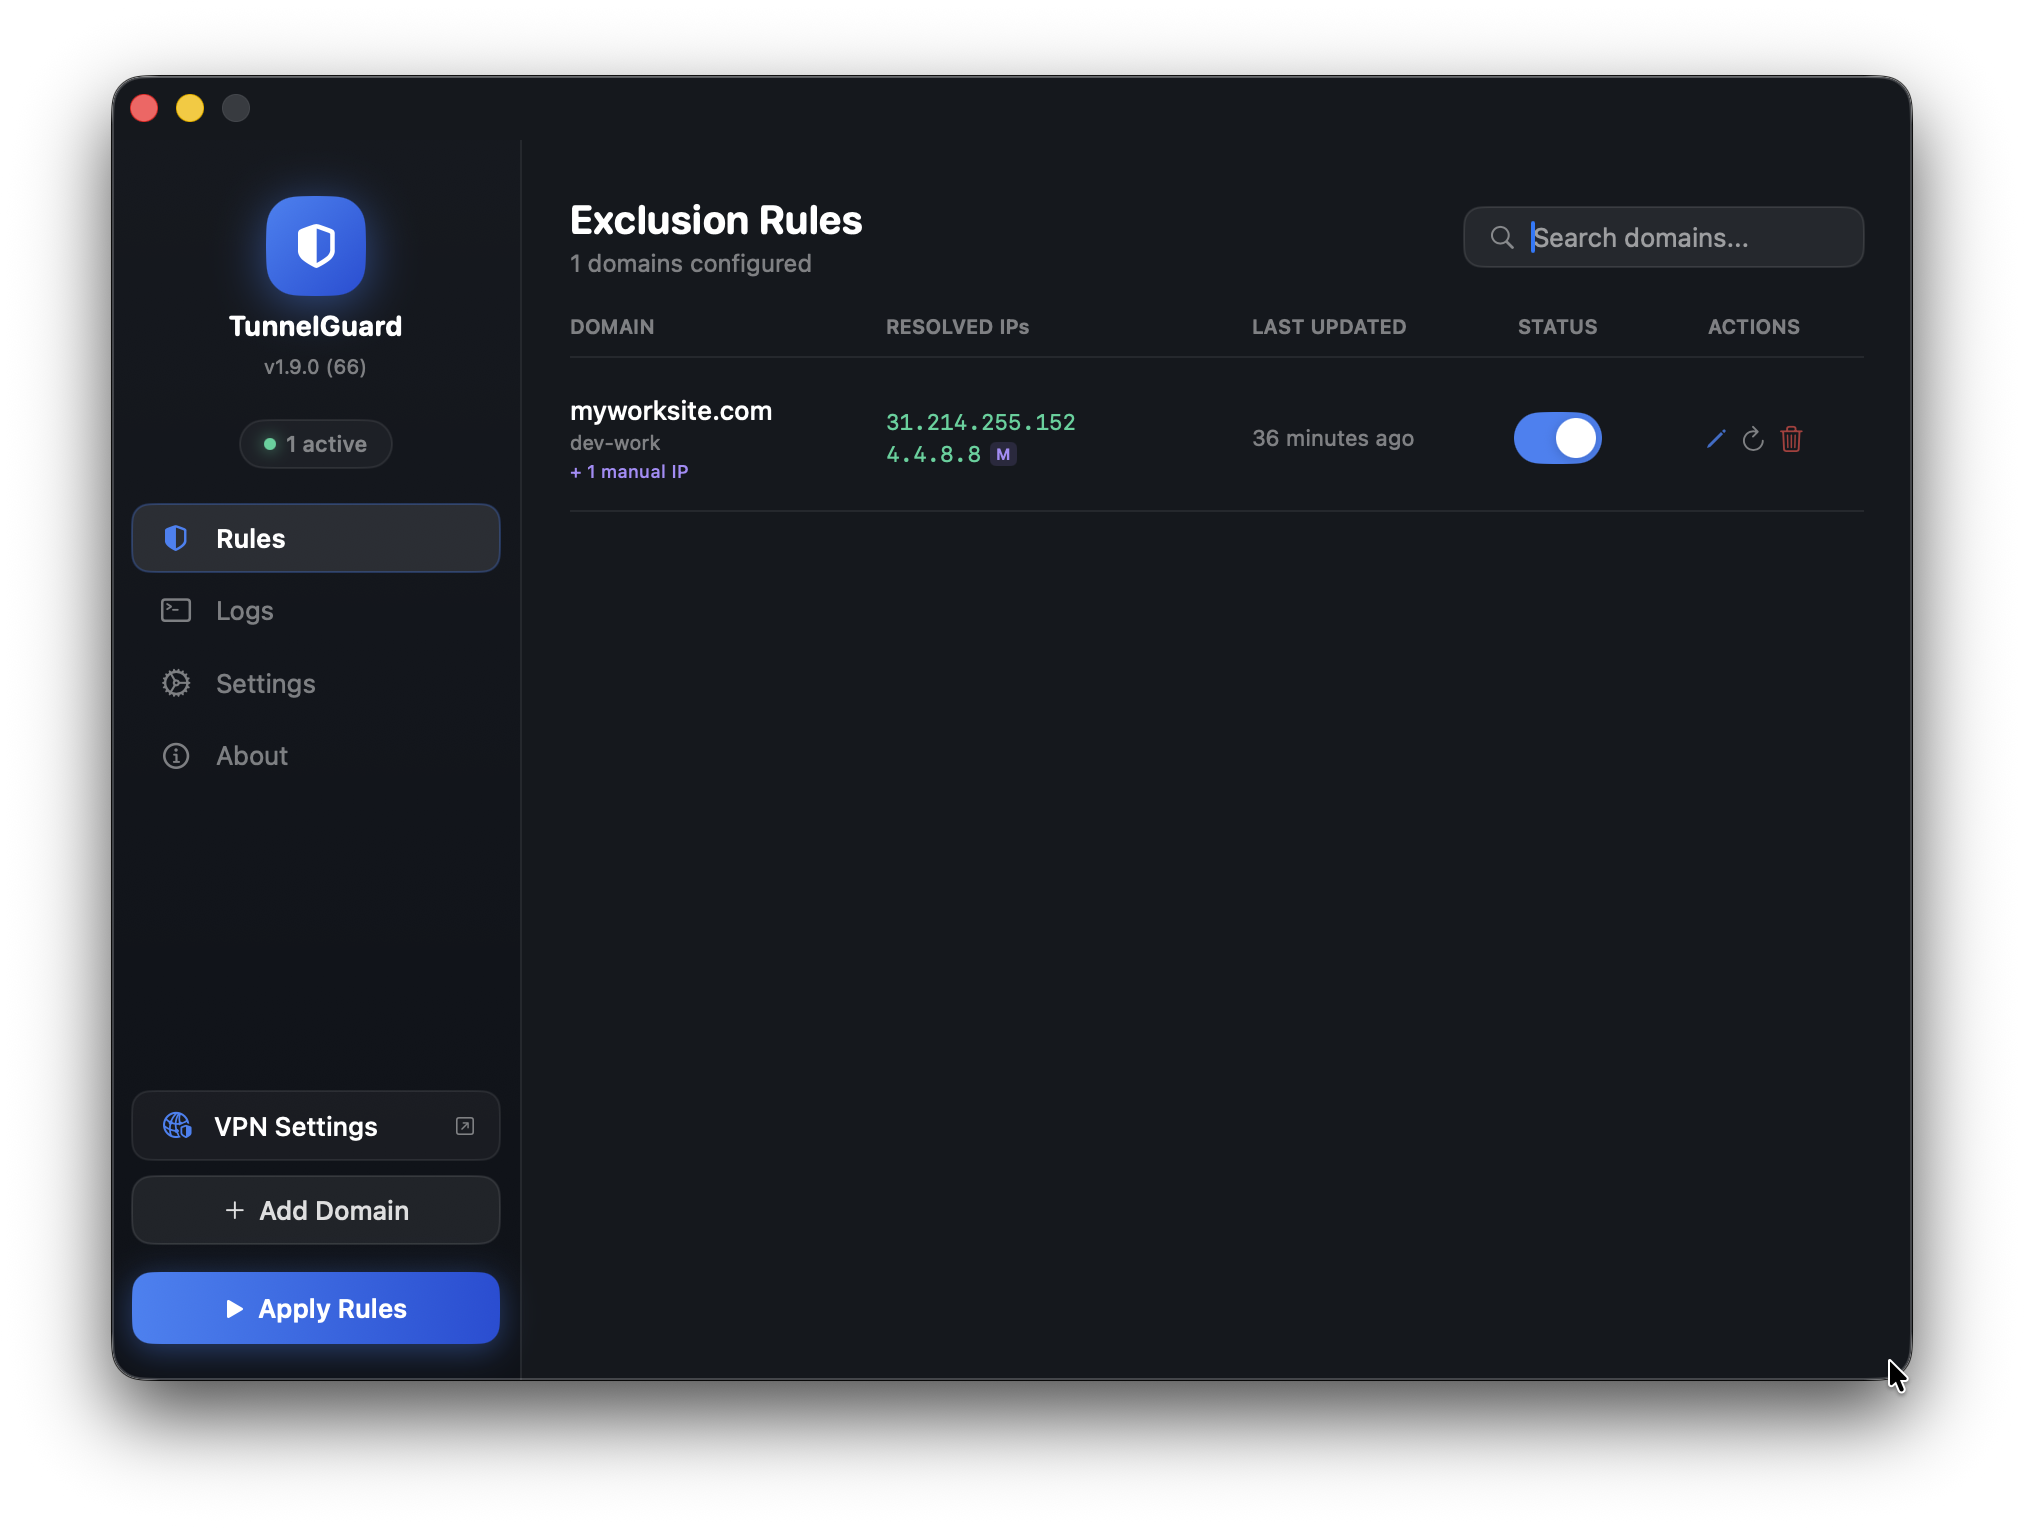
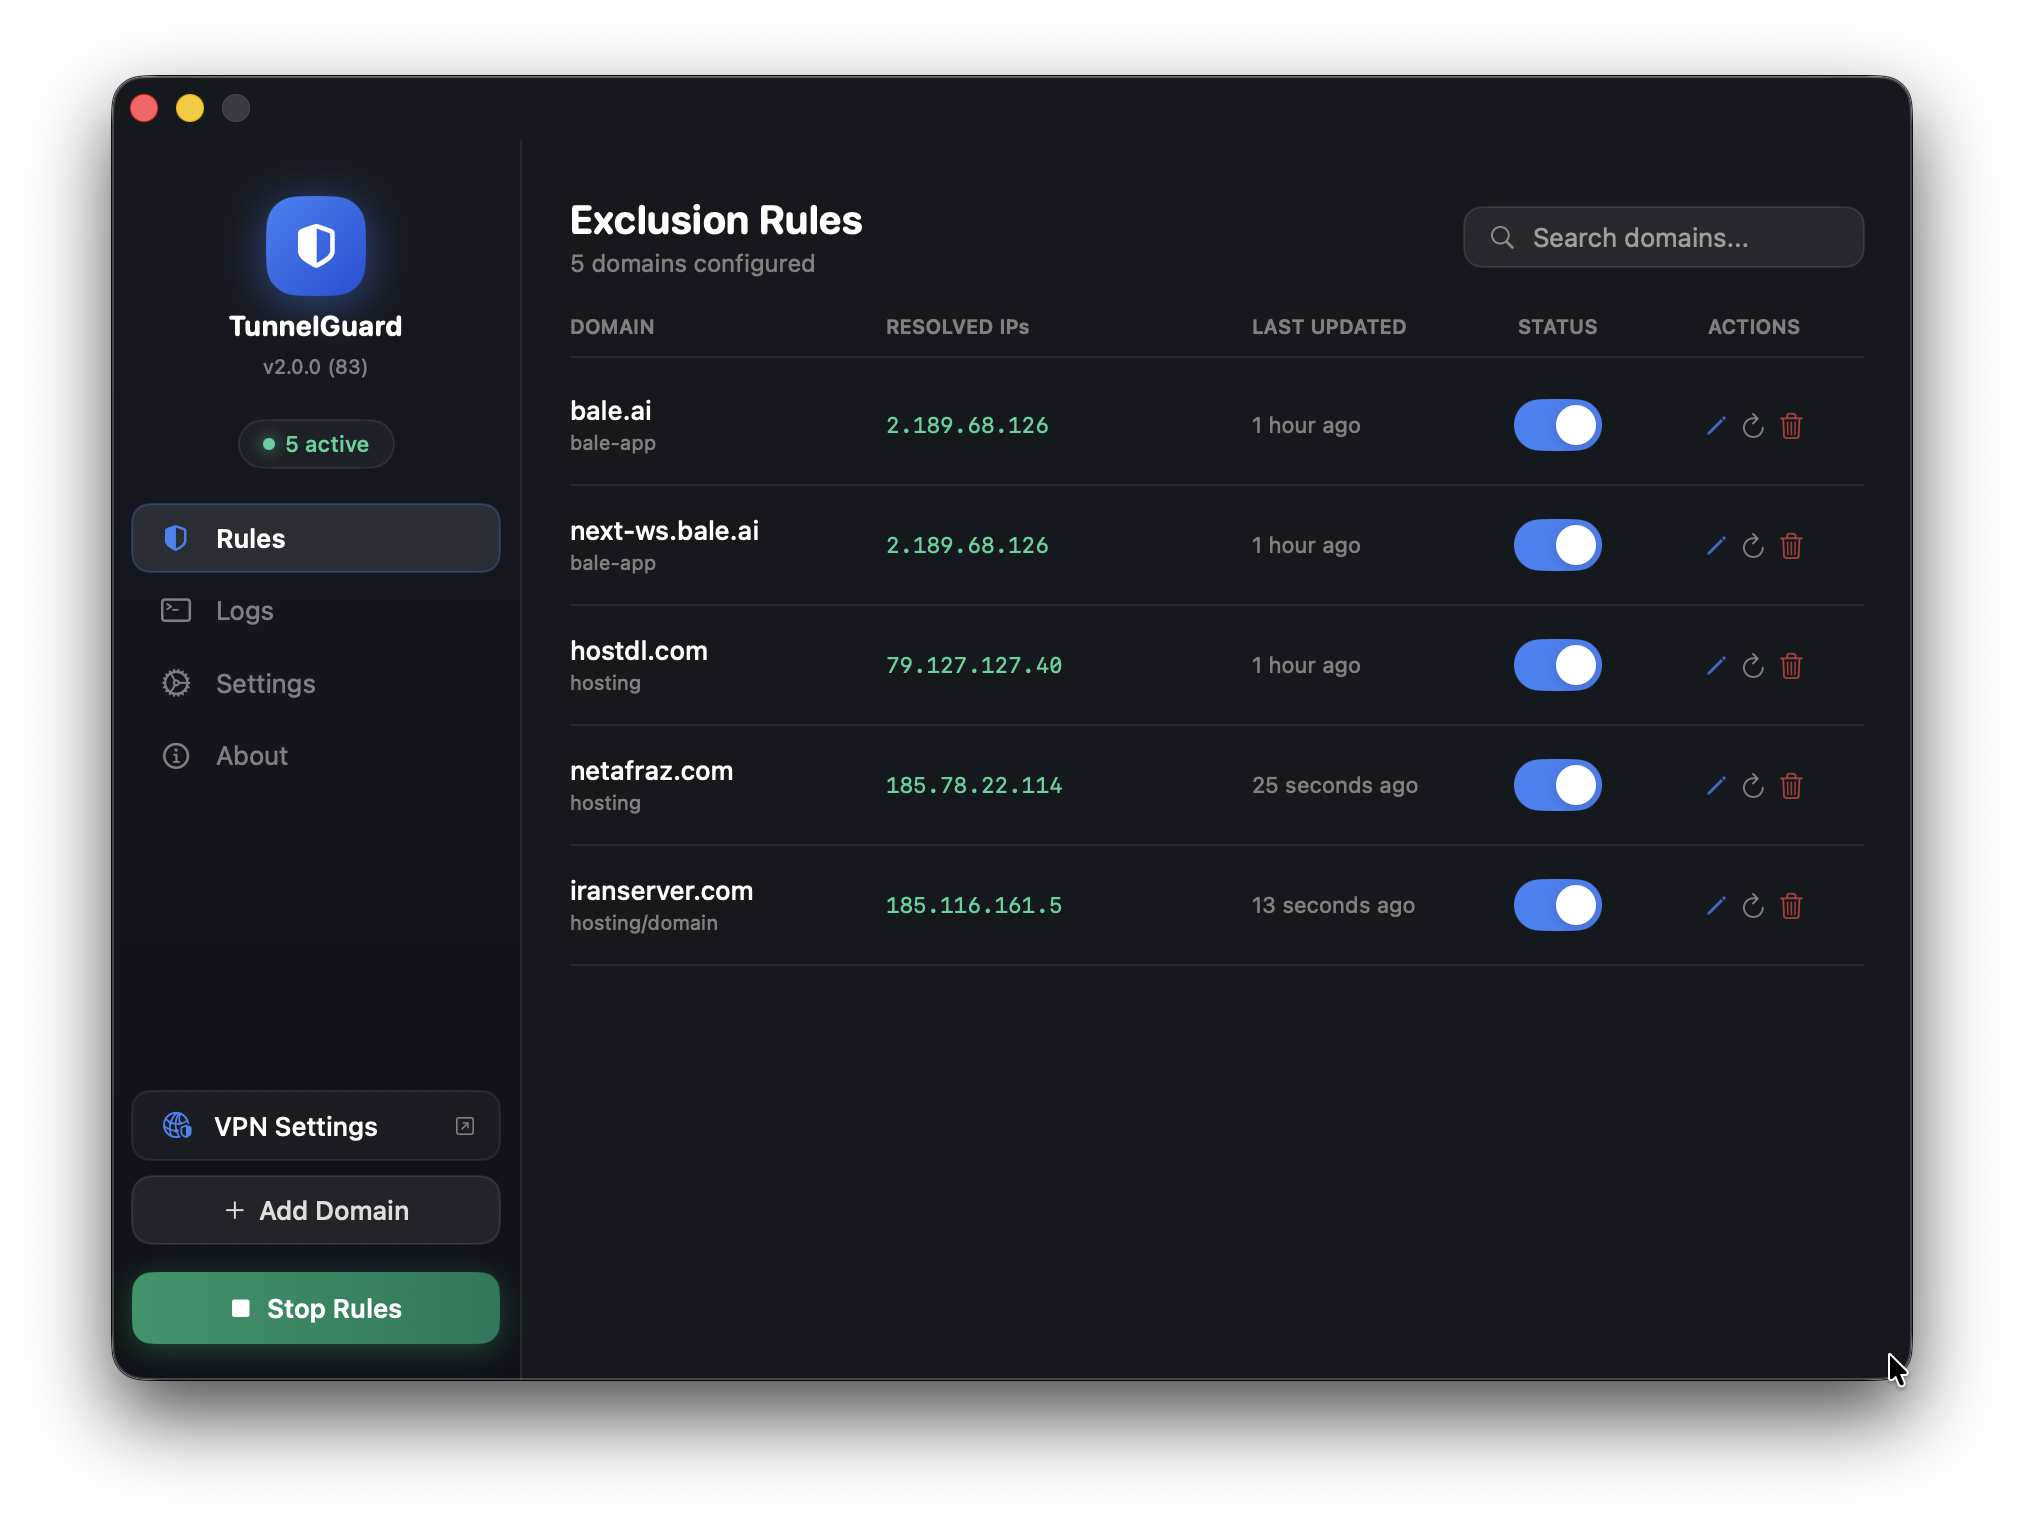
v2.release

diff --git a/Sources/Models.swift b/Sources/Models.swift
@@ -733,48 +733,104 @@ class RouteManager: ObservableObject {
             return
         }
 
-        // Single password prompt for all commands (or direct sudo if granted)
-        let result = runElevatedBatch(commands)
-        let trimmed = result.trimmingCharacters(in: .whitespacesAndNewlines)
-        let hasError = trimmed.contains("Error:") || trimmed.contains("error") || trimmed.contains("not permitted")
+        let writeHosts = AppSettings.shared.writeToHosts
+        let enabledCount = rules.filter { $0.isEnabled }.count
+        let currentRules = rules
 
-        if !trimmed.isEmpty {
-            for line in trimmed.components(separatedBy: "\n") {
-                let l = line.trimmingCharacters(in: .whitespacesAndNewlines)
-                if !l.isEmpty { log("→ \(l)") }
+        // Run shell commands on background thread to avoid blocking UI
+        DispatchQueue.global(qos: .userInitiated).async {
+            let result = self.runElevatedBatch(commands)
+            let trimmed = result.trimmingCharacters(in: .whitespacesAndNewlines)
+            let hasError = trimmed.contains("Error:") || trimmed.contains("error") || trimmed.contains("not permitted")
+
+            // Write /etc/hosts entries if enabled (also on background thread)
+            var hostsOk = true
+            var hostsMsg = ""
+            if writeHosts {
+                let (ok, msg) = HostsFileManager.shared.applyHosts(for: currentRules)
+                hostsOk = ok
+                hostsMsg = msg
             }
-        }
 
-        let count = rules.filter { $0.isEnabled }.count
-        isApplying = false
+            DispatchQueue.main.async {
+                if !trimmed.isEmpty {
+                    for line in trimmed.components(separatedBy: "\n") {
+                        let l = line.trimmingCharacters(in: .whitespacesAndNewlines)
+                        if !l.isEmpty { self.log("→ \(l)") }
+                    }
+                }
 
-        if hasError {
-            applyResult = .error("Some routes failed — check log")
-            log("⚠ Completed with errors.")
-        } else {
-            isRulesApplied = true
-            saveAppliedState()
-            applyResult = .success(count)
-            log("Done applying \(count) rules.")
-        }
+                self.isApplying = false
 
-        // Write /etc/hosts entries if enabled
-        if AppSettings.shared.writeToHosts {
-            applyHostsEntries()
+                if hasError {
+                    self.applyResult = .error("Some routes failed — check log")
+                    self.log("⚠ Completed with errors.")
+                } else {
+                    self.isRulesApplied = true
+                    self.saveAppliedState()
+                    self.applyResult = .success(enabledCount)
+                    self.log("Done applying \(enabledCount) rules.")
+                }
+
+                if writeHosts {
+                    if hostsOk {
+                        let count = currentRules.filter { $0.isEnabled && !$0.allIPs.isEmpty }.count
+                        self.log("DNS bypass: \(count) domain\(count == 1 ? "" : "s") written to /etc/hosts")
+                    } else {
+                        self.log("⚠ Failed to write /etc/hosts: \(hostsMsg)")
+                    }
+                    NotificationCenter.default.post(name: Notification.Name("TunnelGuardHostsFileChanged"), object: nil)
+                }
+            }
         }
     }
 
     func stopAllRules() {
         log("Stopping all rules...")
-        removeAllRoutes()
-        // Remove /etc/hosts entries if they exist
-        if AppSettings.shared.writeToHosts || HostsFileManager.shared.hasHostsEntries() {
-            removeHostsEntries()
+
+        var commands: [String] = []
+        for rule in rules {
+            for ip in rule.allIPs {
+                commands.append("route -n delete \(ip) 2>&1 || true")
+                logCommand("route -n delete \(ip)")
+            }
         }
-        isRulesApplied = false
-        saveAppliedState()
-        applyResult = .none
-        log("All routes stopped.")
+
+        let shouldRemoveHosts = AppSettings.shared.writeToHosts || HostsFileManager.shared.hasHostsEntries()
+
+        // Run shell commands on background thread
+        DispatchQueue.global(qos: .userInitiated).async {
+            if !commands.isEmpty {
+                self.runElevatedBatch(commands)
+            }
+
+            // Remove /etc/hosts entries if they exist
+            var hostsOk = true
+            var hostsMsg = ""
+            if shouldRemoveHosts {
+                let (ok, msg) = HostsFileManager.shared.removeHosts()
+                hostsOk = ok
+                hostsMsg = msg
+            }
+
+            DispatchQueue.main.async {
+                self.isRulesApplied = false
+                self.saveAppliedState()
+                self.applyResult = .none
+                self.log("All routes removed.")
+
+                if shouldRemoveHosts {
+                    if hostsOk {
+                        self.log("DNS bypass: /etc/hosts entries removed")
+                    } else {
+                        self.log("⚠ Failed to clean /etc/hosts: \(hostsMsg)")
+                    }
+                    NotificationCenter.default.post(name: Notification.Name("TunnelGuardHostsFileChanged"), object: nil)
+                }
+
+                self.log("All routes stopped.")
+            }
+        }
     }
 
     func removeAllRoutes() {

diff --git a/Sources/Views.swift b/Sources/Views.swift
@@ -1457,7 +1457,7 @@ struct AboutView: View {
                 }
                 .padding(.top, 32)
 
-                VStack(spacing: 12) {
+                VStack(alignment: .leading, spacing: 12) {
                     Text("DEVELOPER").font(.system(size: 10, weight: .semibold)).foregroundColor(colors.secondaryText)
                     HStack(spacing: 16) {
                         Circle()
@@ -1474,11 +1474,11 @@ struct AboutView: View {
                             LinkButton(title: "GitHub", url: "https://github.com/amirhp-com", icon: "chevron.left.forwardslash.chevron.right", colors: colors)
                         }
                     }
-                    .padding(16)
-                    .background(colors.panelBg)
-                    .clipShape(RoundedRectangle(cornerRadius: 12))
-                    .overlay(RoundedRectangle(cornerRadius: 12).stroke(colors.panelBorder, lineWidth: 1))
                 }
+                .padding(16)
+                .background(colors.panelBg)
+                .clipShape(RoundedRectangle(cornerRadius: 12))
+                .overlay(RoundedRectangle(cornerRadius: 12).stroke(colors.panelBorder, lineWidth: 1))
 
                 VStack(alignment: .leading, spacing: 10) {
                     HStack(spacing: 8) {
@@ -1489,6 +1489,7 @@ struct AboutView: View {
                         .font(.system(size: 12)).foregroundColor(colors.secondaryText).lineSpacing(4)
                 }
                 .padding(16)
+                .frame(maxWidth: .infinity, alignment: .leading)
                 .background(colors.accentOrange.opacity(0.05))
                 .clipShape(RoundedRectangle(cornerRadius: 12))
                 .overlay(RoundedRectangle(cornerRadius: 12).stroke(colors.accentOrange.opacity(0.15), lineWidth: 1))

diff --git a/README.md b/README.md
@@ -9,7 +9,7 @@
 [![macOS](https://img.shields.io/badge/macOS-13.0%2B-green)](https://github.com/amirhp-com/tunnelguard)
 [![License](https://img.shields.io/badge/License-WTFPL-orange)](https://github.com/amirhp-com/tunnelguard/blob/main/LICENSE)
 
-> **Version 1.9.5** · Released 2026-03-07 · 1404-12-16
+> **Version 2.0.0** · Released 2026-03-07 · 1404-12-16
 >
 > Developer: [Amirhossein Hosseinpour (AmirhpCom)](https://amirhp.com/landing) · [GitHub](https://github.com/amirhp-com)
 >
@@ -21,13 +21,13 @@
 
 ### Step 1: Download
 
-👉 **[Download TunnelGuard v1.9.0 (DMG)](https://github.com/amirhp-com/tunnelguard/releases/latest)**
+👉 **[Download TunnelGuard (DMG)](https://github.com/amirhp-com/tunnelguard/releases/latest)**
 
 Or go to [Releases](https://github.com/amirhp-com/tunnelguard/releases) to see all versions.
 
 ### Step 2: Install from DMG
 
-1. **Open** the downloaded `TunnelGuard-installer.dmg` file
+1. **Open** the downloaded `TunnelGuard.dmg` file
 2. **Drag** the TunnelGuard icon into the Applications folder shortcut shown in the window
 3. **Eject** the DMG from Finder sidebar (optional)
 4. **Open** TunnelGuard from your Applications folder
@@ -239,13 +239,25 @@ The developer assumes **no responsibility** for network disruptions, security in
 
 ## Changelog
 
+### v2.0.0 — 2026-03-07
+- **DNS Bypass (`/etc/hosts`)** — New setting to write resolved IPs directly to `/etc/hosts`, bypassing VPN DNS completely. Solves the issue where VPN overrides DNS settings and excluded domains with locally-hosted nameservers fail to resolve. Entries are managed inside a `## TunnelGuard - Start ##` / `## TunnelGuard - End ##` block, matching the format used by Local and WordPress Studio.
+- **VPN DNS detection** — Settings now shows which DNS servers your VPN has pushed (parsed from `scutil --dns`), with a warning when VPN DNS override is detected
+- **Current hosts entries display** — DNS Bypass section shows the actual `/etc/hosts` entries written by TunnelGuard in real-time
+- **DNS cache flush** — Automatically runs `dscacheutil -flushcache` and `killall -HUP mDNSResponder` after every hosts file change so changes take effect immediately
+- **Route state persistence** — Applied/stopped state is saved to UserDefaults and restored on next launch
+- **Existing route detection** — On startup, checks `netstat -nr` for routes from a previous session. If routes are still active after a force-quit, the UI reflects the correct state without re-applying
+- **Startup diagnostics log** — Logs detailed startup info: app version, rule count, gateway IP, DNS server, VPN DNS servers, hosts file status, admin access status, and launch settings
+- **Non-blocking route operations** — Apply and stop operations now run shell commands on a background thread, preventing UI and menu bar freezes during route changes
+- **Expanded admin access** — Sudoers entry now covers `/bin/cp`, `/bin/chmod`, `/usr/sbin/chown`, `/usr/bin/dscacheutil`, and `/usr/bin/killall` in addition to `/sbin/route`, enabling passwordless `/etc/hosts` management. Requires re-granting admin access after update.
+- **Delete confirmation stays on Rules tab** — Moved delete confirmation alert from ContentView into RulesView to prevent tab switching when deleting a rule
+- **Single window enforcement** — Clicking the dock icon now shows the existing window instead of creating a duplicate
+
 ### v1.9.5 — 2026-03-07
-- Added menu-bar icon change automatically when toggling rules on/off
-- Changed App sidebar rules count and color (green when active, gray when idle)
-- Changed menu-bar items and icons to reflect active/inactive state
+- **Menu-bar icon** — changes automatically between shield and network icon when toggling rules on/off
+- **Sidebar status badge** — rules count and indicator color update dynamically (green when active, gray when idle)
+- **Menu-bar context menu** — items and icons reflect current active/inactive state
 
 ### v1.9.0 — 2026-03-06
-
 - Admin access grant/revoke from Settings (sudoers entry for `/sbin/route`)
 - Smart DNS resolution — leave DNS field empty for system default, or use gateway IP
 - Gateway IP validation — detects invalid results like `link#28` with copy & manual entry options
